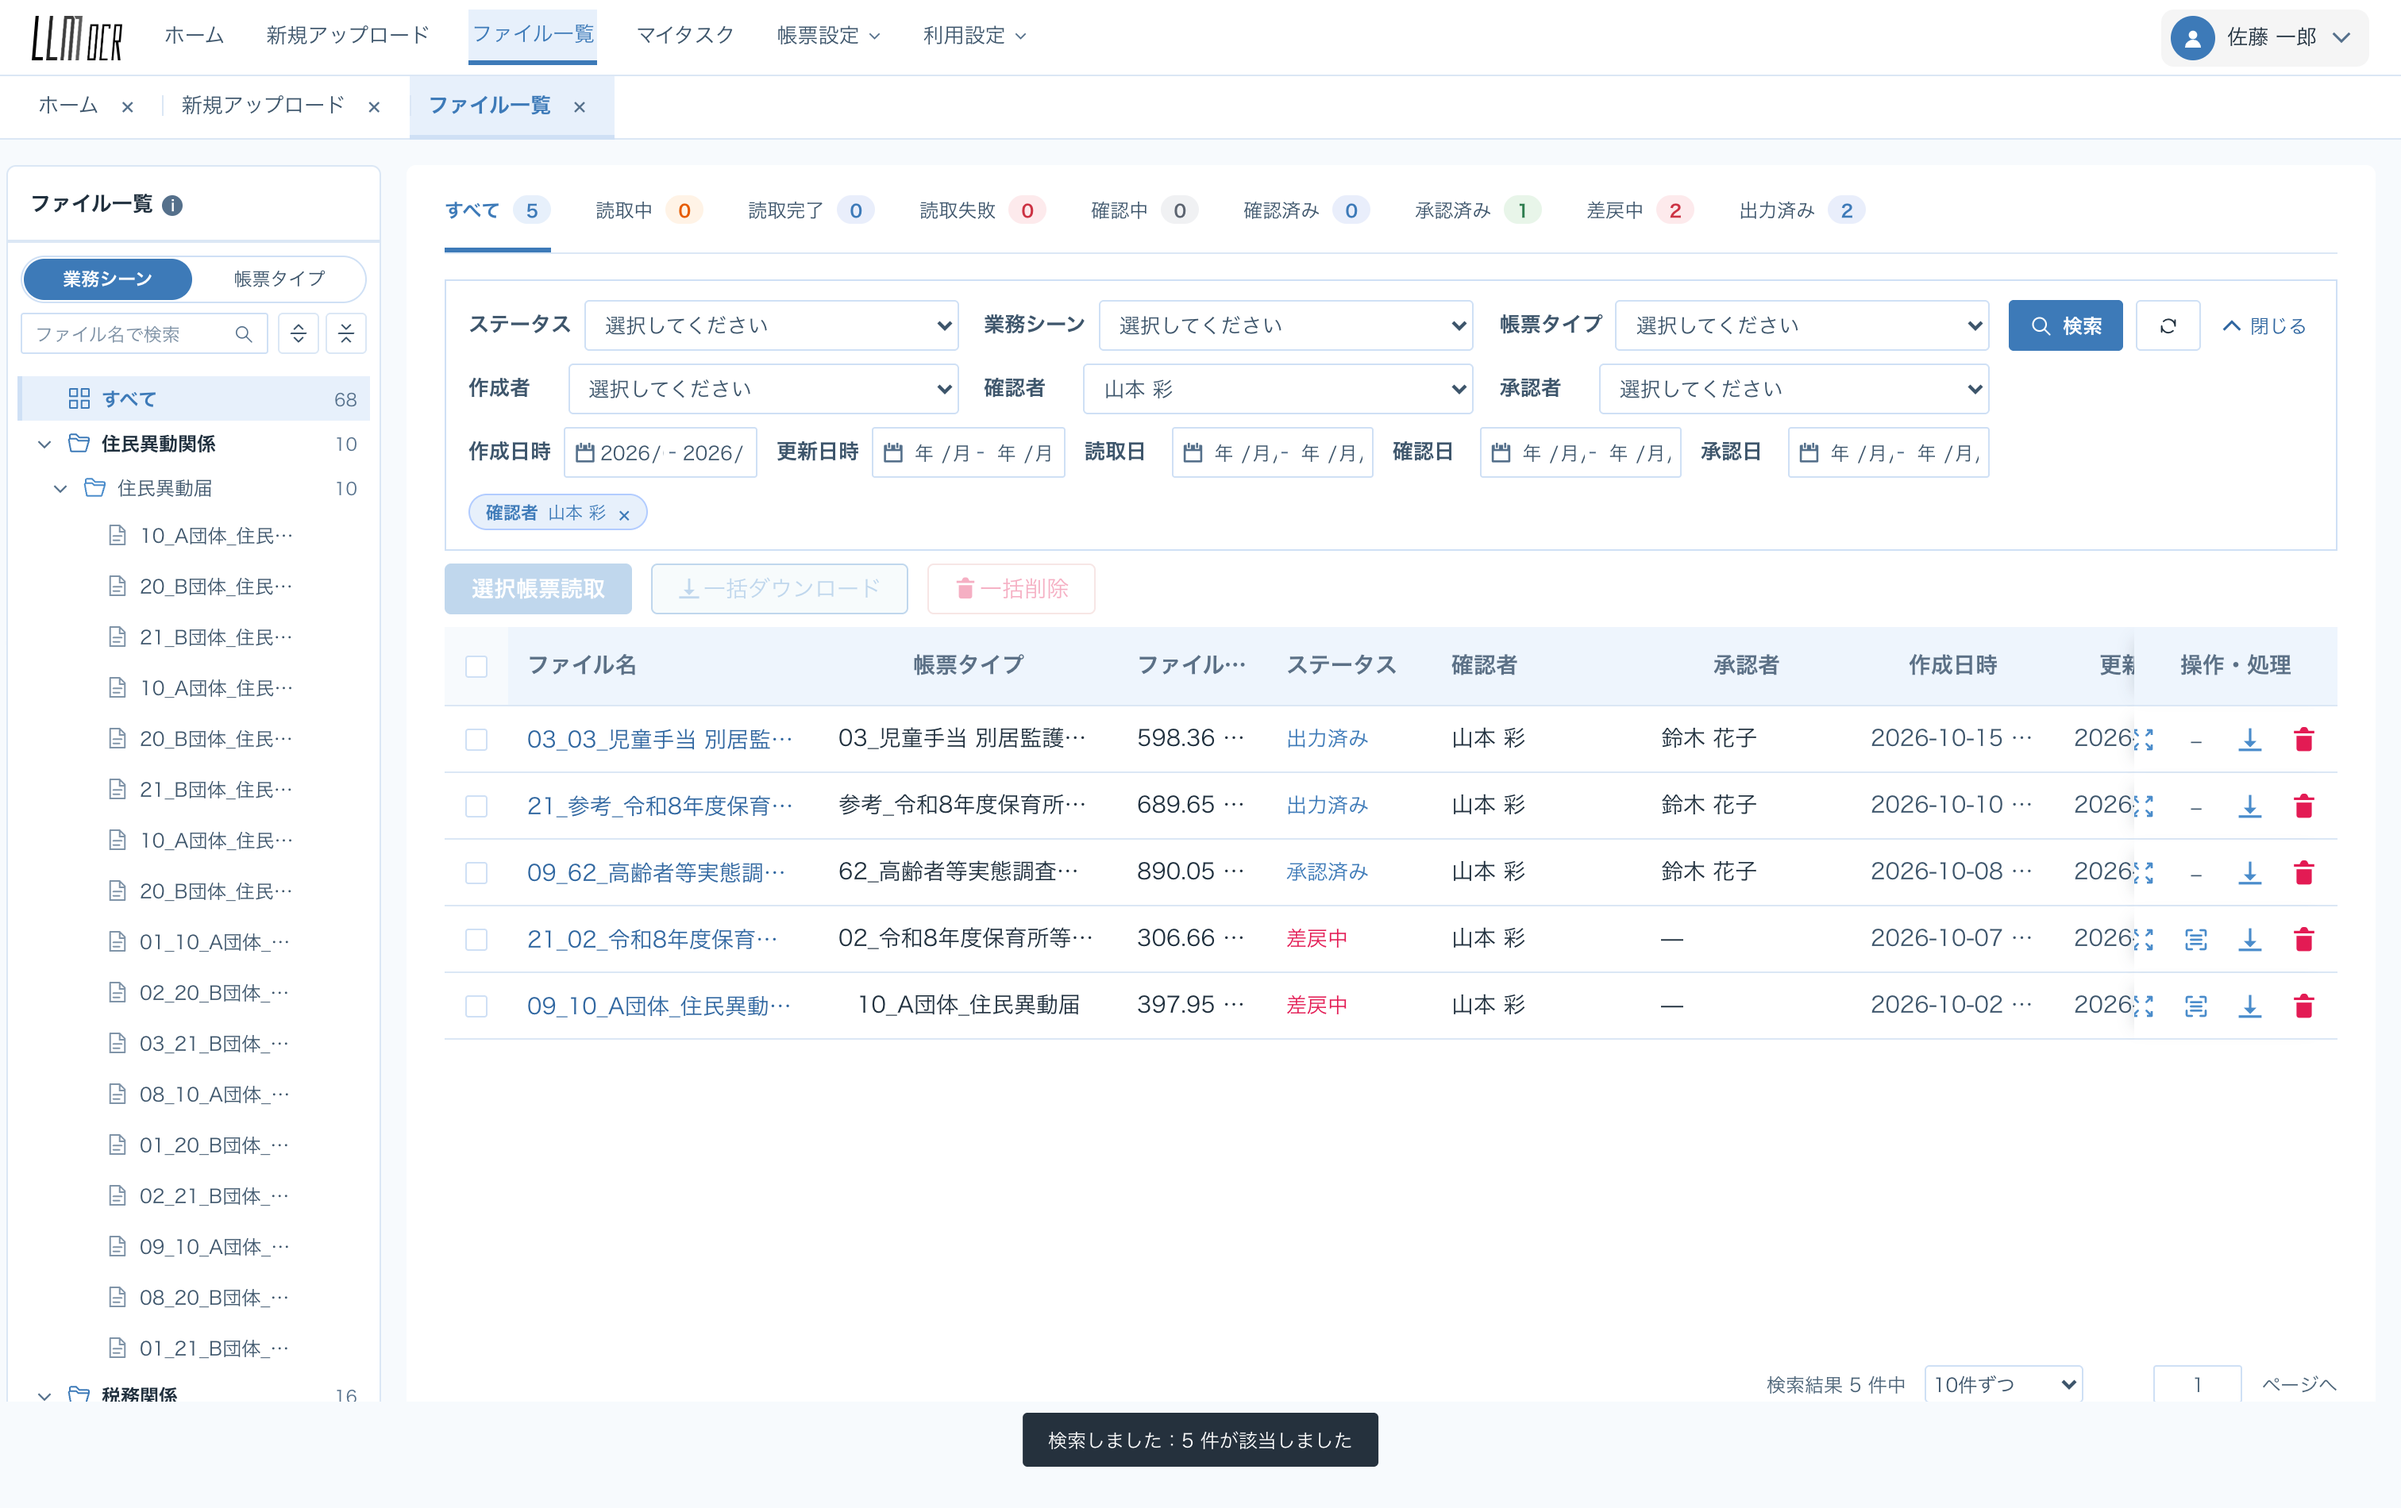
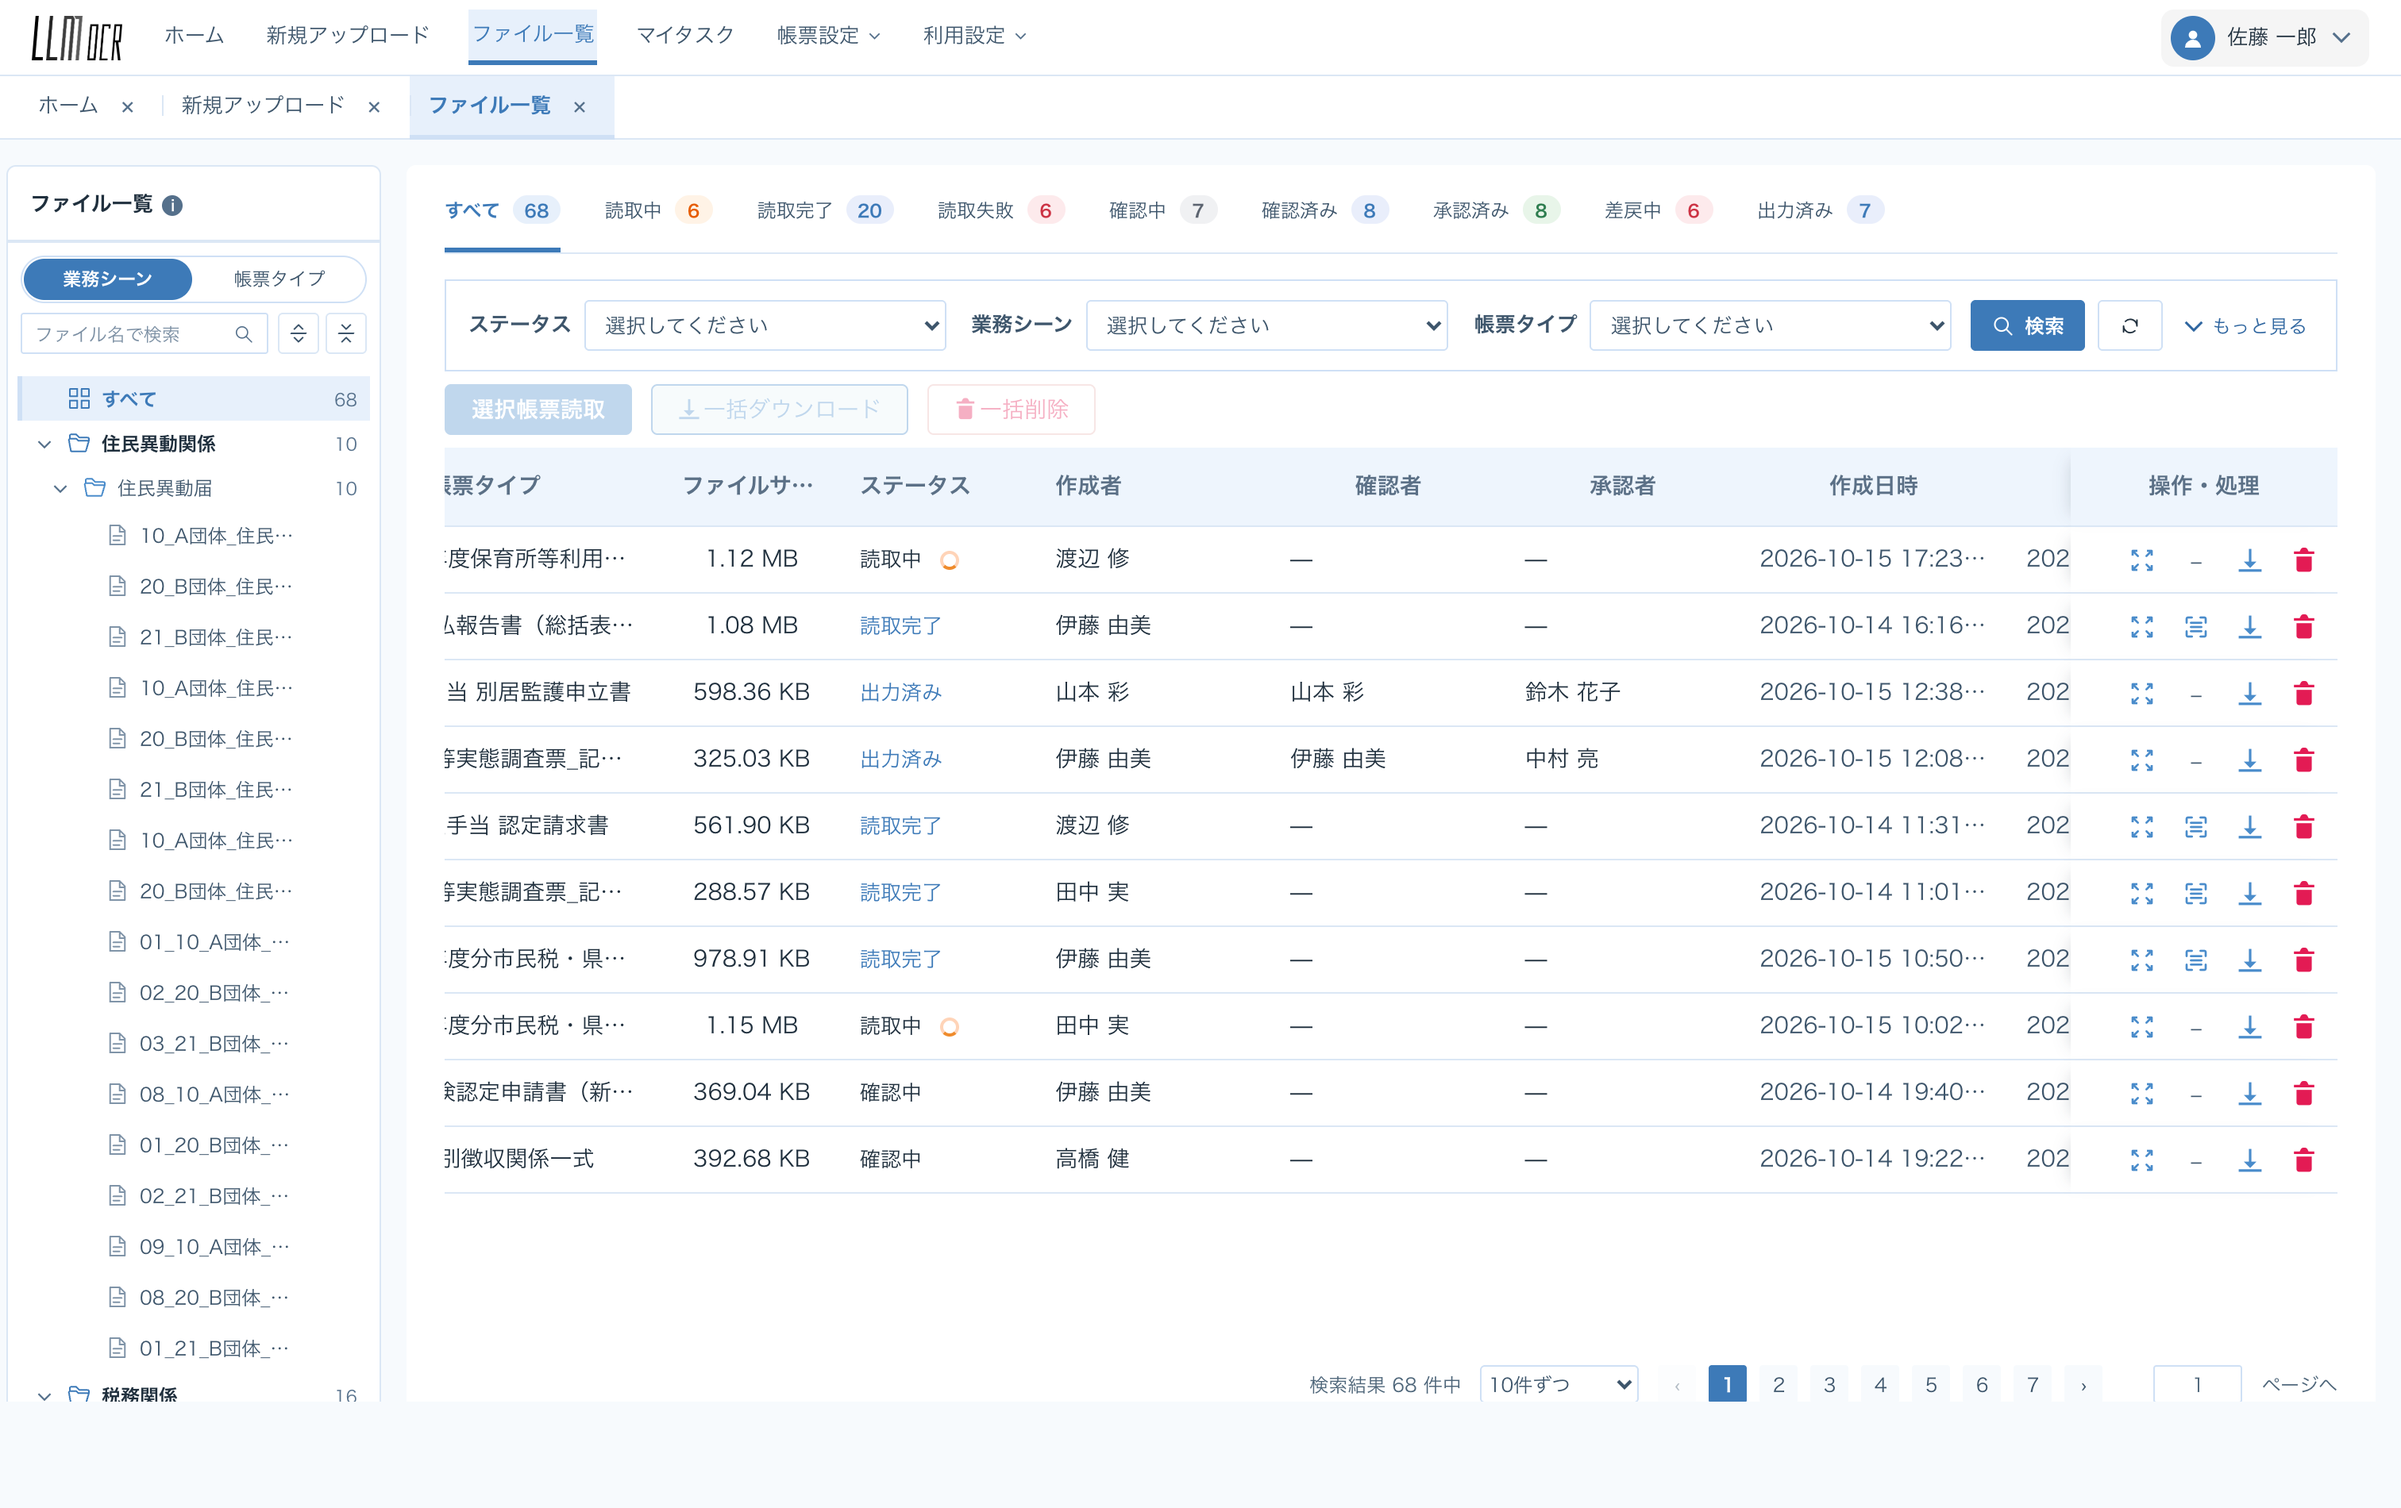
feat: ファイル一覧に「作成者」列を追加し、横スクロールで全列表示
- ステータスの隣に 作成者／確認者／承認者 の 3 列（誰がアップロード・確認・承認したか）
- 表の min-width を 1720px にして列を潰さない（tablewrap を横スクロール）
- 列幅 CSS を 11 列に整理（重複していた nth-child ルールを統合）
- dist/ も再ビルド

diff --git a/dist/index.html b/dist/index.html
@@ -57,21 +57,22 @@
 </style>
 <style>/* RESULT_FREEZE */
 /* ══ ファイル一覧：末尾の「操作・処理」列だけ横スクロールでも固定する ══ */
-.result-table { table-layout: fixed !important; min-width: 0 !important; width: 100% !important; }
+.result-table { table-layout: fixed !important; min-width: 1720px !important; width: 100% !important; }
 .result-table col { width: auto !important; }
+/* 列幅（チェック / ファイル名 / 帳票タイプ / サイズ / ステータス / 作成者 / 確認者 / 承認者 / 作成日時 / 更新日時 / 操作・処理） */
 .result-table th:nth-child(1),  .result-table td:nth-child(1)  { width: 40px; }
-.result-table th:nth-child(2),  .result-table td:nth-child(2)  { width: 196px; }
-.result-table th:nth-child(3),  .result-table td:nth-child(3)  { width: 188px; }
-.result-table th:nth-child(4),  .result-table td:nth-child(4)  { width: 94px; }
-.result-table th:nth-child(5),  .result-table td:nth-child(5)  { width: 104px; }
-.result-table th:nth-child(6),  .result-table td:nth-child(6)  { width: 168px; }
-.result-table th:nth-child(7),  .result-table td:nth-child(7)  { width: 138px; }
-.result-table th:nth-child(8),  .result-table td:nth-child(8)  { width: 138px; }
-.result-table th:nth-child(6),  .result-table td:nth-child(6)  { width: 120px; }
-.result-table th:nth-child(7),  .result-table td:nth-child(7)  { width: 120px; }
-.result-table th:nth-child(8),  .result-table td:nth-child(8)  { width: 128px; }
-.result-table th:nth-child(9),  .result-table td:nth-child(9)  { width: 128px; }
-.result-table th:nth-child(10), .result-table td:nth-child(10) { width: 128px; }
+.result-table th:nth-child(2),  .result-table td:nth-child(2)  { width: 240px; }
+.result-table th:nth-child(3),  .result-table td:nth-child(3)  { width: 200px; }
+.result-table th:nth-child(4),  .result-table td:nth-child(4)  { width: 100px; }
+.result-table th:nth-child(5),  .result-table td:nth-child(5)  { width: 110px; }
+.result-table th:nth-child(6),  .result-table td:nth-child(6)  { width: 130px; }
+.result-table th:nth-child(7),  .result-table td:nth-child(7)  { width: 130px; }
+.result-table th:nth-child(8),  .result-table td:nth-child(8)  { width: 130px; }
+.result-table th:nth-child(9),  .result-table td:nth-child(9)  { width: 150px; }
+.result-table th:nth-child(10), .result-table td:nth-child(10) { width: 150px; }
+.result-table th:nth-child(11), .result-table td:nth-child(11) { width: 150px; }
+/* 横スクロール（全列を潰さずに表示） */
+.result-content > .tablewrap, .result-panel .tablewrap { overflow-x: auto !important; }
 .result-table th, .result-table td { overflow: hidden; text-overflow: ellipsis; }
 .result-table td:nth-child(2), .result-table td:nth-child(3),
 .result-table td:nth-child(6) { white-space: nowrap; }

diff --git a/dist/app.js b/dist/app.js
@@ -2892,7 +2892,7 @@ function renderTable() {
         <td class="name col-name"><button class="fn link" data-result-preview="${f.id}" title="${esc(dispFileName(f.id))}">${esc(dispFileName(f.id))}</button></td>
         <td class="result-type" title="${esc(dispLayout(f.layout))}">${esc(dispLayout(f.layout))}</td>
         <td class="result-size">${fmtSize(f.size)}</td>
-        <td><span class="st ${stCls(f.status)}" title="${esc(STATUS[f.status].label)}">${esc(STATUS[f.status].label)}${f.status === 'classifying' || f.status === 'reading' ? '<span class="spin"></span>' : ''}</span></td><td class="sub" title="${esc(userName(f.confirmedBy) || '')}">${esc(userName(f.confirmedBy) || '—')}</td><td class="sub" title="${esc(userName(f.approvedBy) || '')}">${esc(userName(f.approvedBy) || '—')}</td>
+        <td><span class="st ${stCls(f.status)}" title="${esc(STATUS[f.status].label)}">${esc(STATUS[f.status].label)}${f.status === 'classifying' || f.status === 'reading' ? '<span class="spin"></span>' : ''}</span></td><td class="sub" title="${esc(userName(f.createdBy) || '')}">${esc(userName(f.createdBy) || '—')}</td><td class="sub" title="${esc(userName(f.confirmedBy) || '')}">${esc(userName(f.confirmedBy) || '—')}</td><td class="sub" title="${esc(userName(f.approvedBy) || '')}">${esc(userName(f.approvedBy) || '—')}</td>
         
         <td class="col-created" style="white-space:nowrap;color:var(--text-2)">${esc(f.createdAt)}</td>
         <td style="white-space:nowrap;color:var(--text-2)">${esc(f.updatedAt)}</td>
@@ -2948,7 +2948,7 @@ function renderTable() {
       </colgroup>
       <thead><tr>
         <th><input type="checkbox" class="cb" data-pickall="1" aria-label="このページを全選択" ${rows.length && rows.every((f) => state.picked[f.id]) ? 'checked' : ''} /></th>
-        <th data-sort="name" class="col-name" style="cursor:pointer">ファイル名${arrow('name')}</th>${th('layout', '帳票タイプ')}${th('size', 'ファイルサイズ')}${th('status', 'ステータス')}<th style="width:132px">確認者</th><th style="width:132px">承認者</th>${th('createdAt', '作成日時', 'class="col-created"')}${th('updatedAt', '更新日時')}<th class="result-actions-cell centered">操作・処理</th>
+        <th data-sort="name" class="col-name" style="cursor:pointer">ファイル名${arrow('name')}</th>${th('layout', '帳票タイプ')}${th('size', 'ファイルサイズ')}${th('status', 'ステータス')}<th style="width:132px">作成者</th><th style="width:132px">確認者</th><th style="width:132px">承認者</th>${th('createdAt', '作成日時', 'class="col-created"')}${th('updatedAt', '更新日時')}<th class="result-actions-cell centered">操作・処理</th>
       </tr></thead>
       <tbody>${body}</tbody>
     </table>

diff --git a/demo/serve.py b/demo/serve.py
@@ -684,21 +684,22 @@ GRP_TK_CSS = """
 
 RESULT_FREEZE_CSS = """
 /* ══ ファイル一覧：末尾の「操作・処理」列だけ横スクロールでも固定する ══ */
-.result-table { table-layout: fixed !important; min-width: 0 !important; width: 100% !important; }
+.result-table { table-layout: fixed !important; min-width: 1720px !important; width: 100% !important; }
 .result-table col { width: auto !important; }
+/* 列幅（チェック / ファイル名 / 帳票タイプ / サイズ / ステータス / 作成者 / 確認者 / 承認者 / 作成日時 / 更新日時 / 操作・処理） */
 .result-table th:nth-child(1),  .result-table td:nth-child(1)  { width: 40px; }
-.result-table th:nth-child(2),  .result-table td:nth-child(2)  { width: 196px; }
-.result-table th:nth-child(3),  .result-table td:nth-child(3)  { width: 188px; }
-.result-table th:nth-child(4),  .result-table td:nth-child(4)  { width: 94px; }
-.result-table th:nth-child(5),  .result-table td:nth-child(5)  { width: 104px; }
-.result-table th:nth-child(6),  .result-table td:nth-child(6)  { width: 168px; }
-.result-table th:nth-child(7),  .result-table td:nth-child(7)  { width: 138px; }
-.result-table th:nth-child(8),  .result-table td:nth-child(8)  { width: 138px; }
-.result-table th:nth-child(6),  .result-table td:nth-child(6)  { width: 120px; }
-.result-table th:nth-child(7),  .result-table td:nth-child(7)  { width: 120px; }
-.result-table th:nth-child(8),  .result-table td:nth-child(8)  { width: 128px; }
-.result-table th:nth-child(9),  .result-table td:nth-child(9)  { width: 128px; }
-.result-table th:nth-child(10), .result-table td:nth-child(10) { width: 128px; }
+.result-table th:nth-child(2),  .result-table td:nth-child(2)  { width: 240px; }
+.result-table th:nth-child(3),  .result-table td:nth-child(3)  { width: 200px; }
+.result-table th:nth-child(4),  .result-table td:nth-child(4)  { width: 100px; }
+.result-table th:nth-child(5),  .result-table td:nth-child(5)  { width: 110px; }
+.result-table th:nth-child(6),  .result-table td:nth-child(6)  { width: 130px; }
+.result-table th:nth-child(7),  .result-table td:nth-child(7)  { width: 130px; }
+.result-table th:nth-child(8),  .result-table td:nth-child(8)  { width: 130px; }
+.result-table th:nth-child(9),  .result-table td:nth-child(9)  { width: 150px; }
+.result-table th:nth-child(10), .result-table td:nth-child(10) { width: 150px; }
+.result-table th:nth-child(11), .result-table td:nth-child(11) { width: 150px; }
+/* 横スクロール（全列を潰さずに表示） */
+.result-content > .tablewrap, .result-panel .tablewrap { overflow-x: auto !important; }
 .result-table th, .result-table td { overflow: hidden; text-overflow: ellipsis; }
 .result-table td:nth-child(2), .result-table td:nth-child(3),
 .result-table td:nth-child(6) { white-space: nowrap; }
@@ -1099,12 +1100,14 @@ def apply_result_person_columns(src):
     # ① colgroup：ステータス(120px)の後ろに 2 列
     col_old = '<col style="width:120px">\n        <col style="width:160px">'
     col_new = ('<col style="width:120px">\n        <col style="width:132px">\n        '
-               '<col style="width:132px">\n        <col style="width:160px">')
+               '<col style="width:132px">\n        <col style="width:132px">\n        '
+               '<col style="width:160px">')
     if col_old in src:
         src = src.replace(col_old, col_new, 1)
     # ② 見出し
     th_old = "${th('status', 'ステータス')}"
     th_new = (th_old
+              + '<th style="width:132px">作成者</th>'
               + '<th style="width:132px">確認者</th>'
               + '<th style="width:132px">承認者</th>')
     if th_old in src:
@@ -1114,6 +1117,7 @@ def apply_result_person_columns(src):
     if m:
         cell = m.group(1)
         add = (cell
+               + '<td class="sub" title="${esc(userName(f.createdBy) || \'\')}">${esc(userName(f.createdBy) || \'—\')}</td>'
                + '<td class="sub" title="${esc(userName(f.confirmedBy) || \'\')}">${esc(userName(f.confirmedBy) || \'—\')}</td>'
                + '<td class="sub" title="${esc(userName(f.approvedBy) || \'\')}">${esc(userName(f.approvedBy) || \'—\')}</td>')
         src = src.replace(cell, add, 1)
